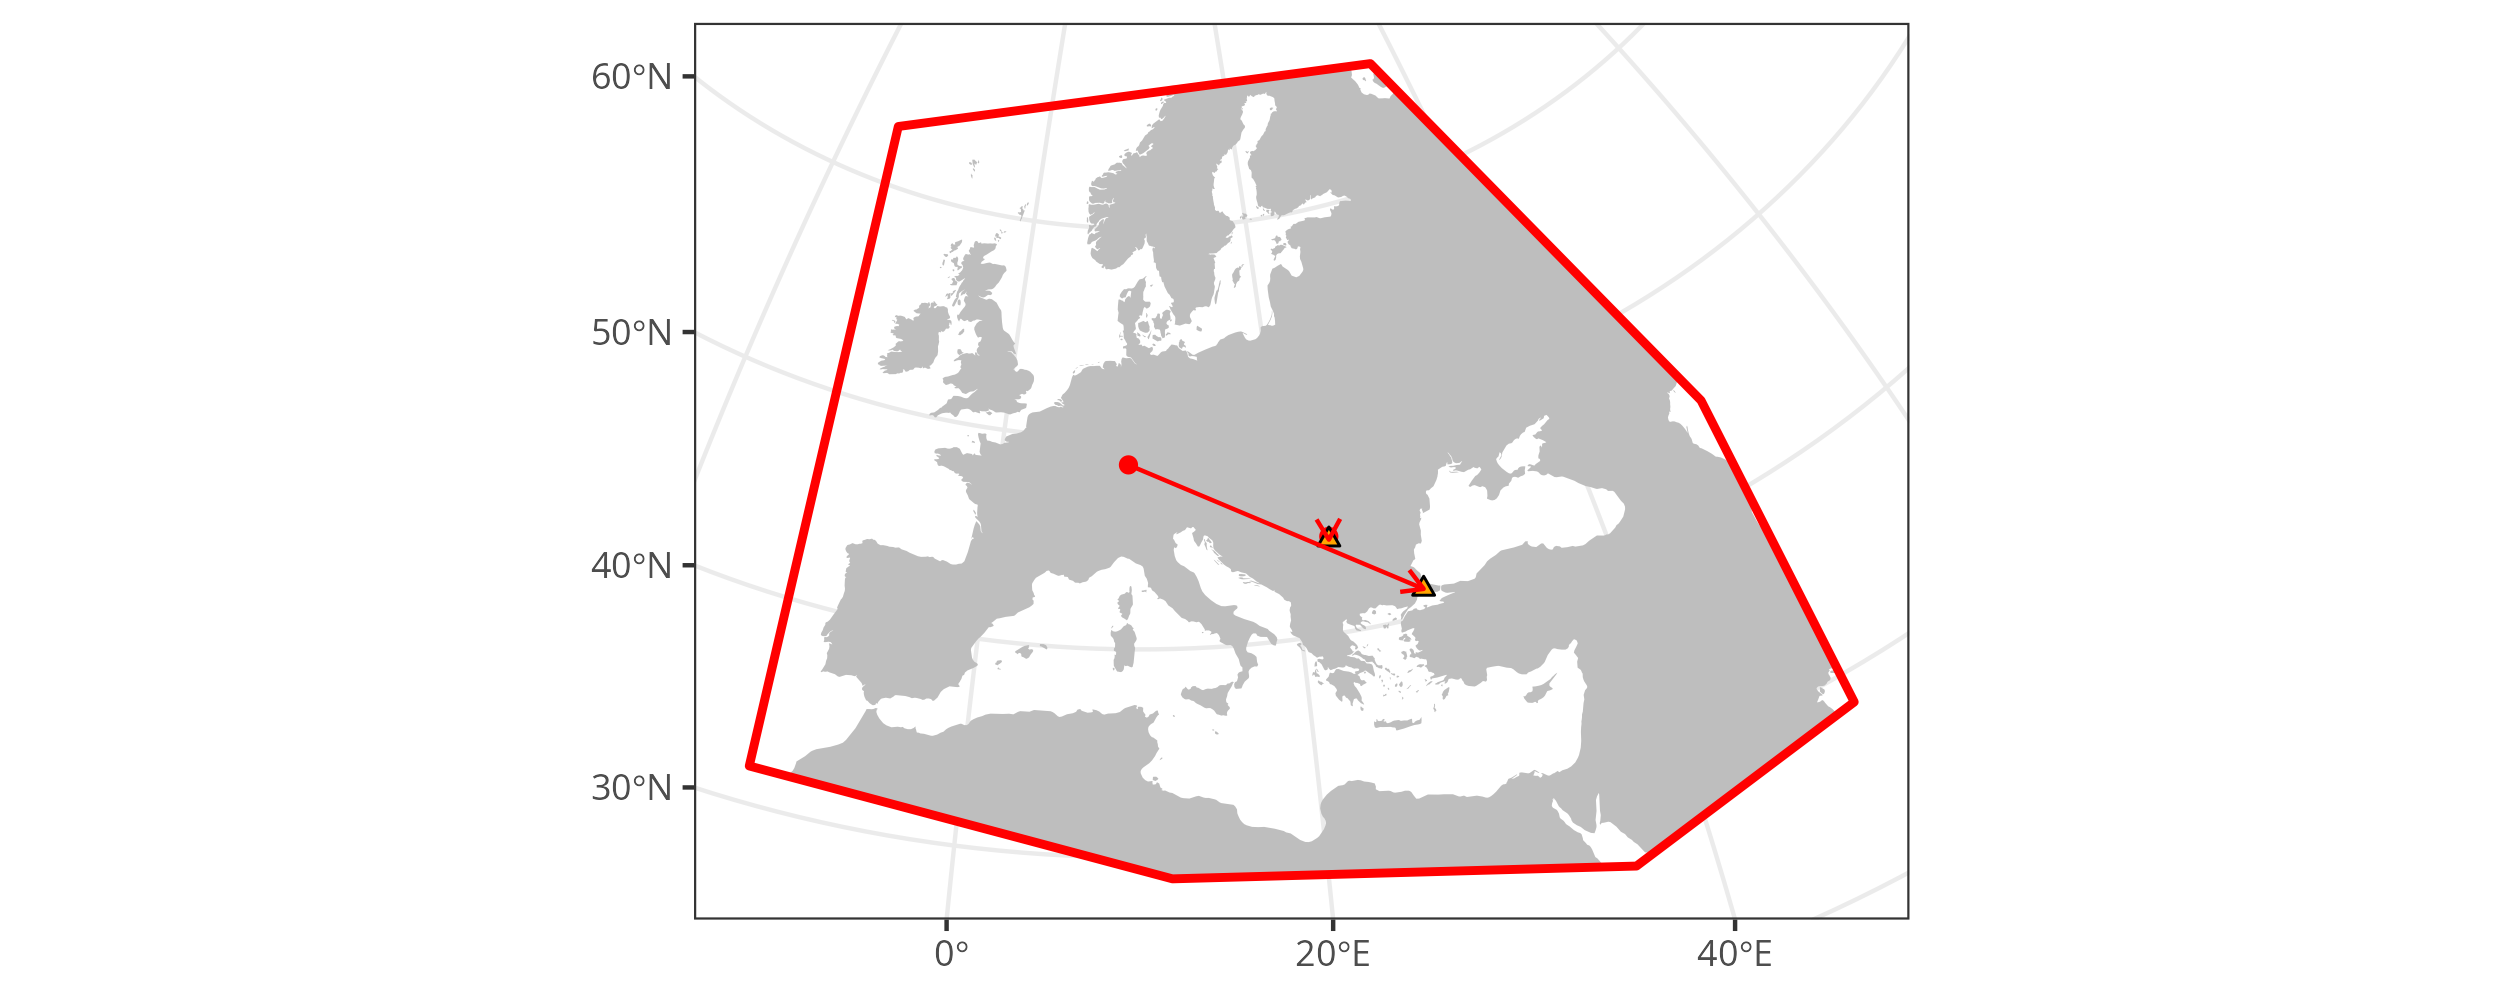
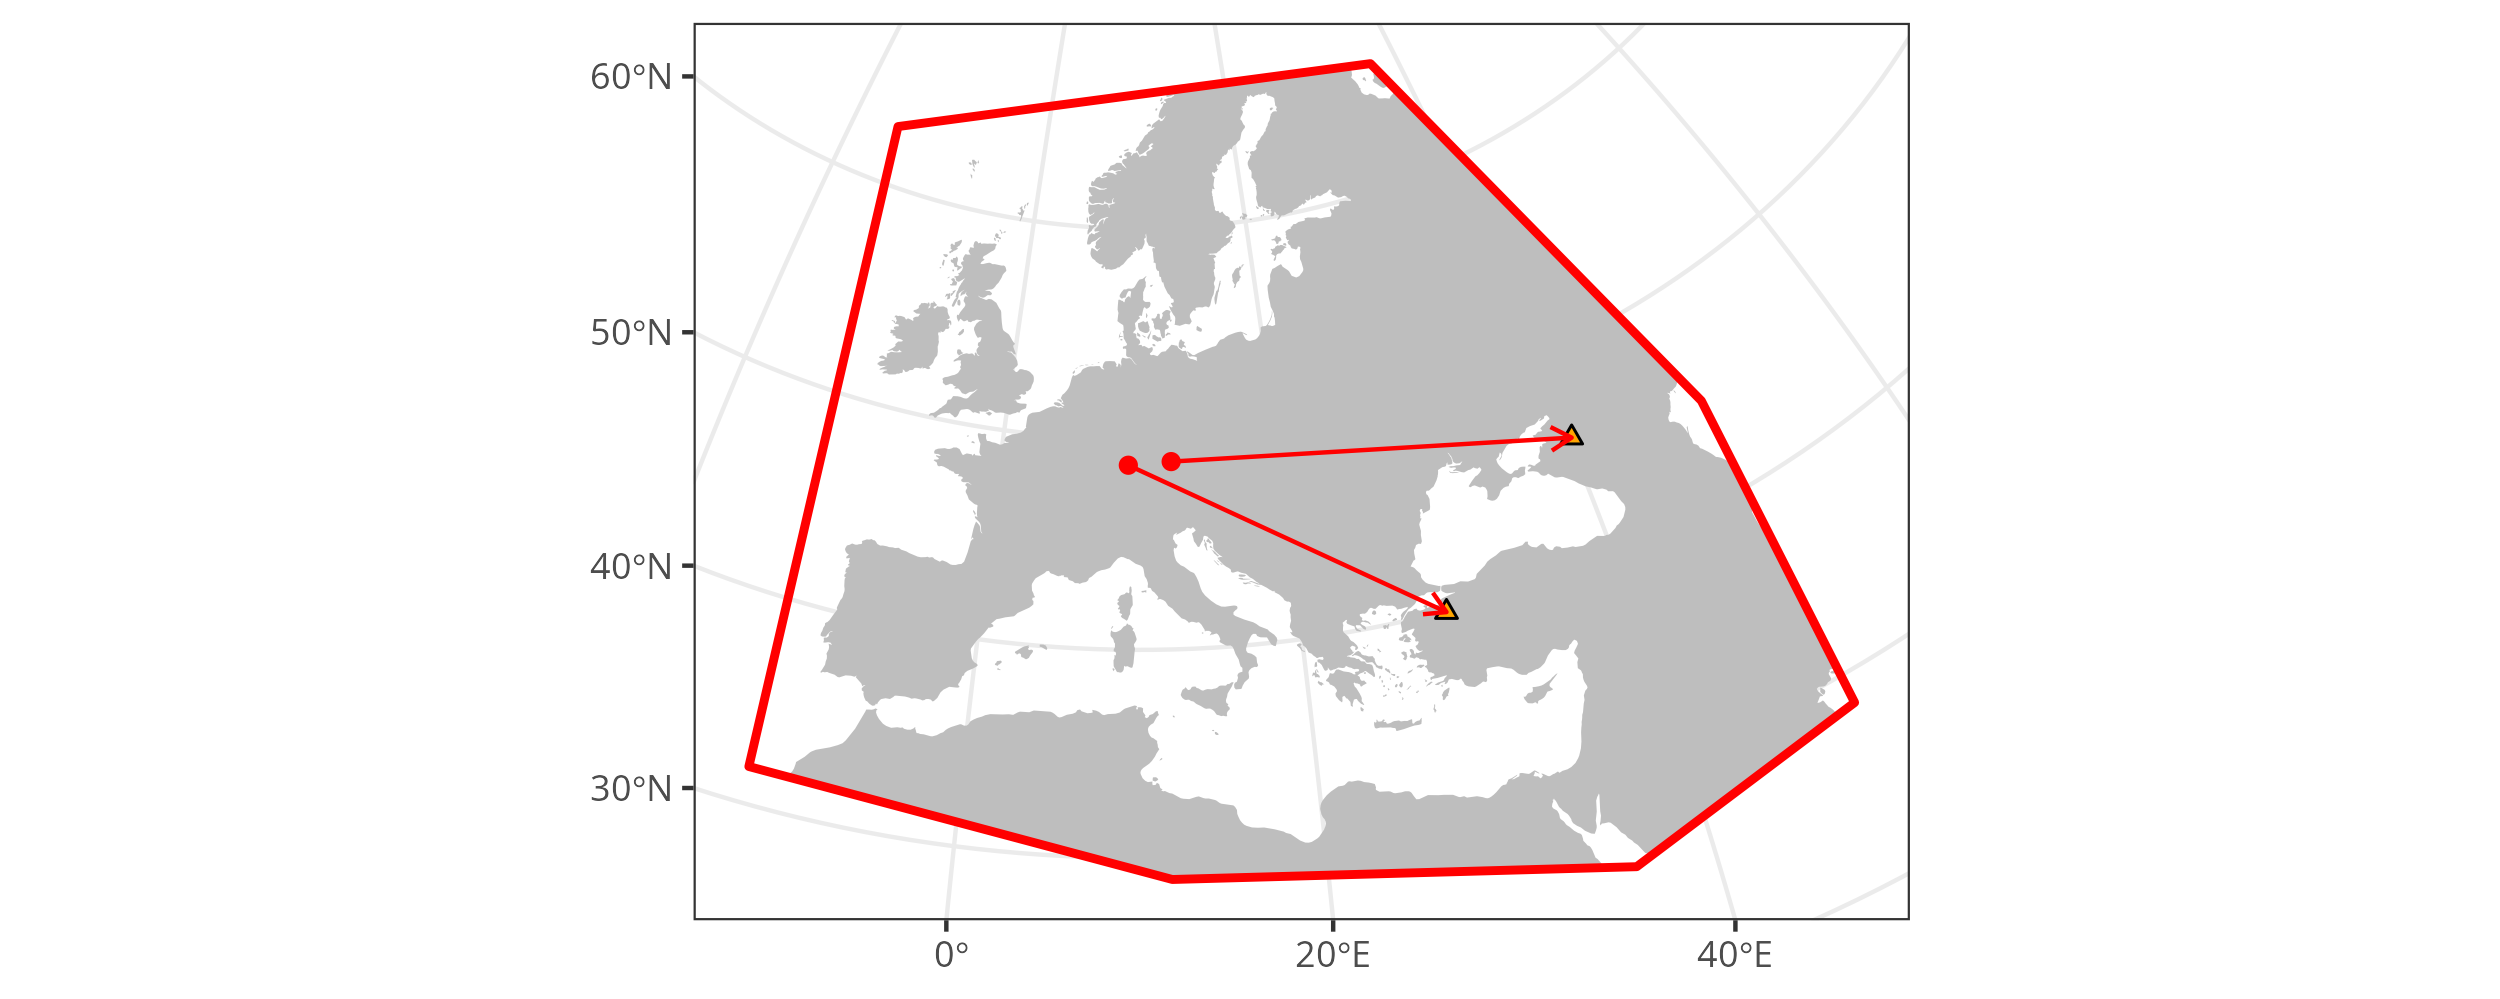
better second example search sample

diff --git a/docs/multisearch.md b/docs/multisearch.md
@@ -175,12 +175,12 @@ Similarity search map plot for two different time slices including arrows to the
 
 ## Multiple search samples
 
-We can also select multiple search samples and prepare the input data for `mobest::locate()` 
+We can also select multiple search samples and prepare the input data for `mobest::locate()`. Here we introduce another sample `RISE434` originally published in {cite}`Allentoft2015`.
 
 ```r
 search_samples <- samples_projected %>%
   dplyr::filter(
-    Sample_ID %in% c("Stuttgart_published.DG", "I5411")
+    Sample_ID %in% c("Stuttgart_published.DG", "RISE434.SG")
   )
 
 search_ind <- mobest::create_spatpos(
@@ -205,7 +205,7 @@ search_result <- mobest::locate(
   search_independent = search_ind,
   search_dependent   = search_dep,
   search_space_grid  = spatial_pred_grid,
-  search_time        = -700,
+  search_time        = -1500,
   search_time_mode   = "relative"
 )
 search_product <- mobest::multiply_dependent_probabilities(search_result)
@@ -247,13 +247,13 @@ ggplot() +
         "Stuttgart_published.DG" = paste(
           "<Stuttgart> ~5250BC",
           "Early Neolithic (Linear Pottery culture) - Lazaridis et al. 2014",
-          "Search time: ~5950BC",
+          "Search time: ~6750BC",
           sep = "\n"
         ),
-        "I5411" = paste(
-          "<I5411> ~6650BC",
-          "Mesolithic (Iron Gates) - Mathieson et al. 2018",
-          "Search time: ~7350BC",
+        "RISE434.SG" = paste(
+          "<RISE434> ~2750BC",
+          "Late Neolithic (Corded Ware culture) - Allentoft et al. 2015",
+          "Search time: ~4250BC",
           sep = "\n"
         )
       )
